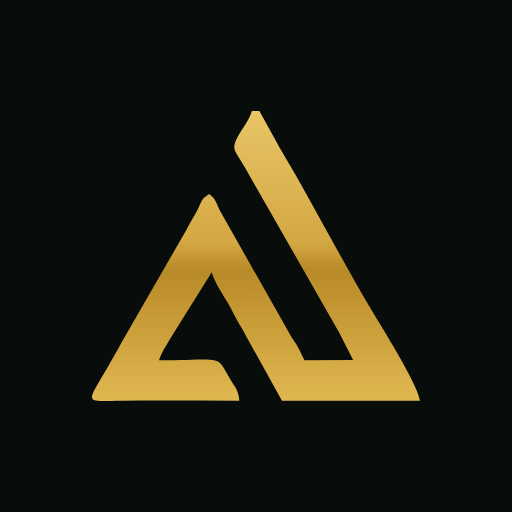
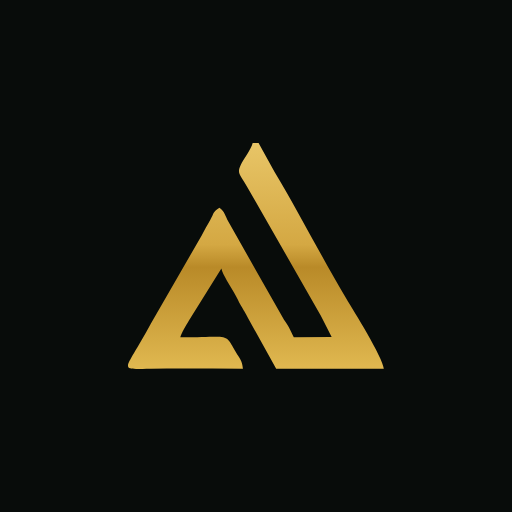
chore: обновление иконок PWA, SW v8, новая квадратная марка лого
- public/icon-192.png, icon-512.png, apple-touch-icon.png — обновлены
- public/logo-mark-square.svg — новая квадратная марка логотипа
- public/sw.js: VERSION bumped v7 → v8 (форсит пересборку SW-кеша
  у клиентов, актуально после смены иконок)

Изменения подготовлены параллельным агентом.

diff --git a/public/sw.js b/public/sw.js
@@ -5,7 +5,7 @@
 //  2. Работа при флапающей мобильной сети (offline-fallback).
 //  3. Не ломать данные Supabase (всегда сеть, никогда кэш).
 
-const VERSION = 'v7'
+const VERSION = 'v8'
 const STATIC_CACHE  = `wag-static-${VERSION}`
 const RUNTIME_CACHE = `wag-runtime-${VERSION}`
 const OFFLINE_URL   = '/offline'
